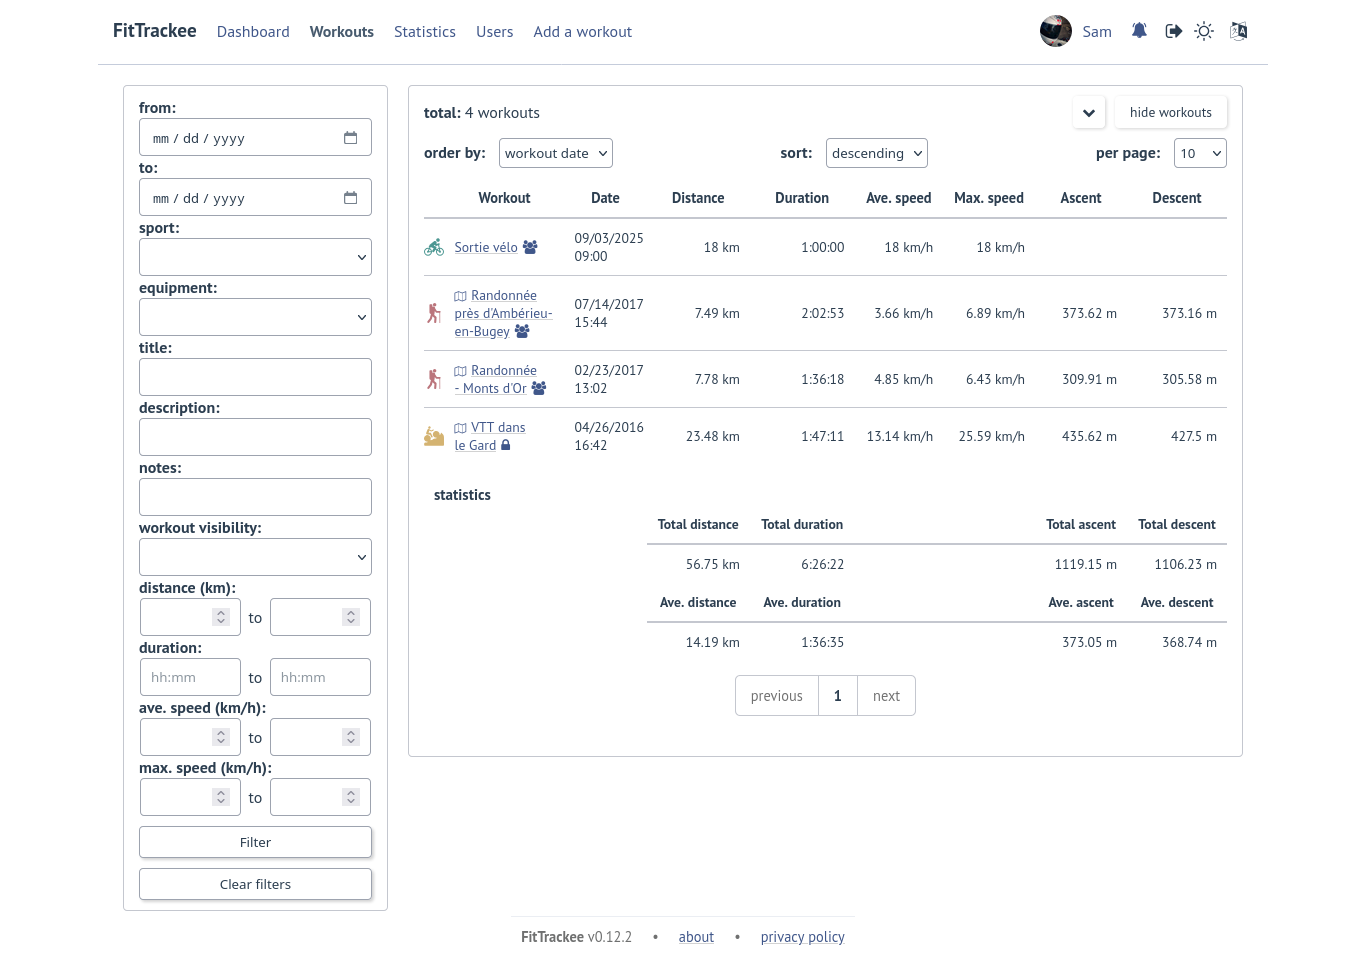
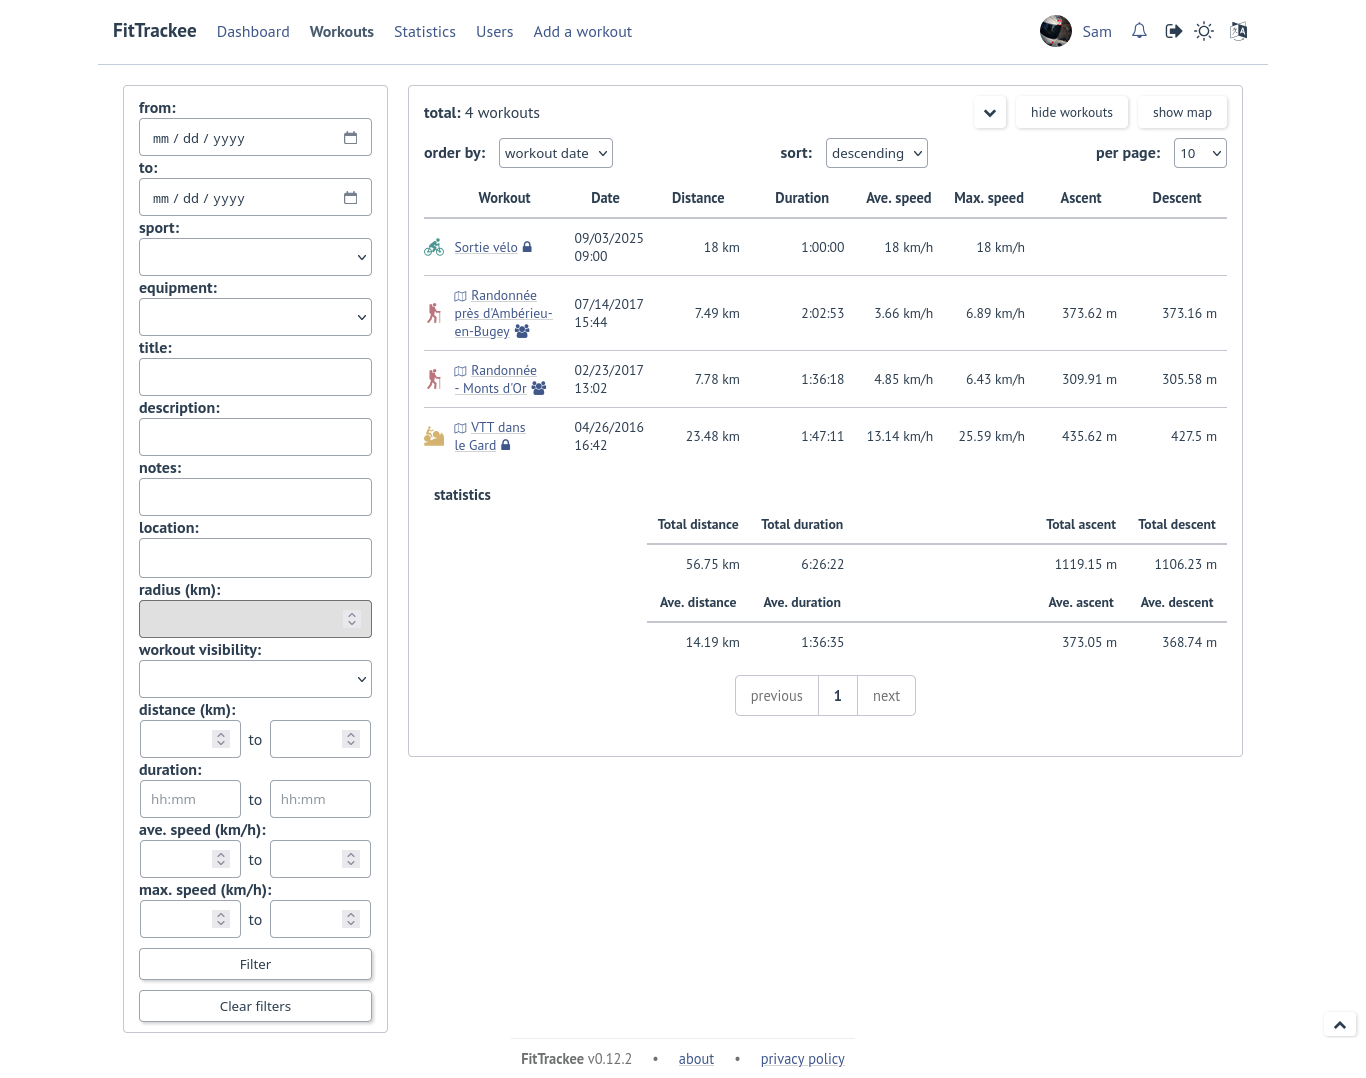
update documentation

diff --git a/docsrc/source/features.rst b/docsrc/source/features.rst
@@ -281,6 +281,12 @@ Workouts
 
     When multiple pages are fetched, statistics for all pages are also displayed.
 
+  - Filtered workouts can be displayed on a map (*new in 1.0.0*)
+
+.. note::
+  | Map and filters on location and radius require the environment variable `ENABLE_GEOSPATIAL_FEATURES <installation.html#envvar-ENABLE_GEOSPATIAL_FEATURES>`_ to be set to ``True``. Otherwise these features are not enabled.
+
+
 .. note::
   | There is a limit on the number of workouts used to calculate statistics to avoid performance issues. The value can be set in administration.
   | If the limit is reached, the number of workouts used is displayed.
@@ -297,7 +303,7 @@ Workouts
   |
   | Workout description can be displayed by adding ``description`` parameter (not displayed by default) (*new in 0.12.1*):
 
-  - ``https://<FITTRACKEE_DOMAIN>/users/<USERNAME>/workouts.rss?description=tree``
+  - ``https://<FITTRACKEE_DOMAIN>/users/<USERNAME>/workouts.rss?description=true``
 
 .. note::
   The rendering of the description may differ from that on FitTrackee, as different libraries are used and additional styles are applied on the UI.
@@ -774,8 +780,10 @@ Workouts list
 -------------
 
 .. figure:: _images/workouts-list.png
-   :alt: FitTrackee Workouts
+   :alt: FitTrackee Workouts List
 
+.. figure:: _images/workouts-map.png
+   :alt: FitTrackee Workouts Map
 
 Statistics
 ----------

diff --git a/docsrc/source/api/workouts.rst b/docsrc/source/api/workouts.rst
@@ -4,6 +4,7 @@ Workouts
 .. autoflask:: fittrackee:create_app()
    :endpoints:
     workouts.get_workouts,
+    workouts.get_workouts_feature_collection,
     workouts.get_workout,
     workouts.get_workout_geojson,
     workouts.get_segment_geojson,
